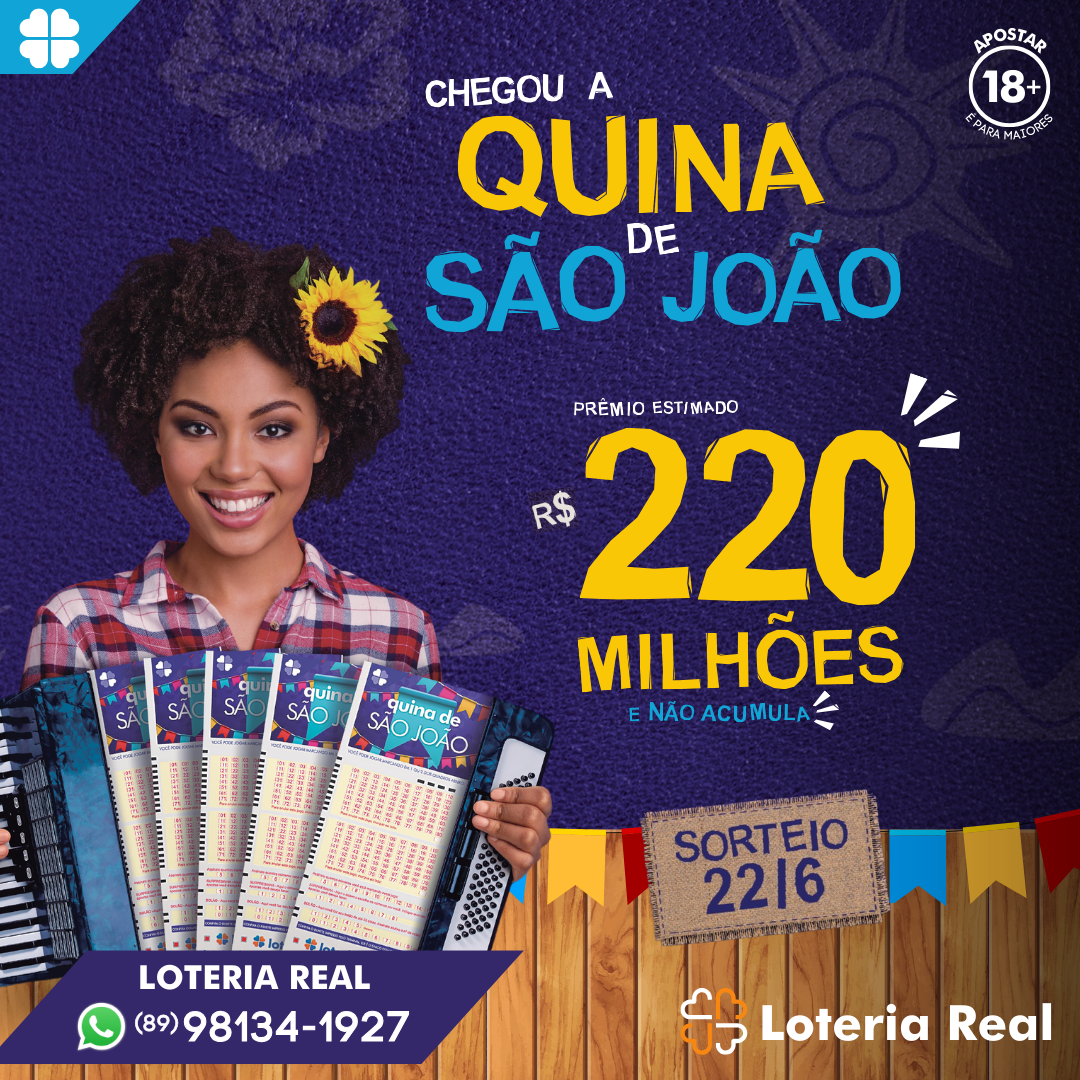
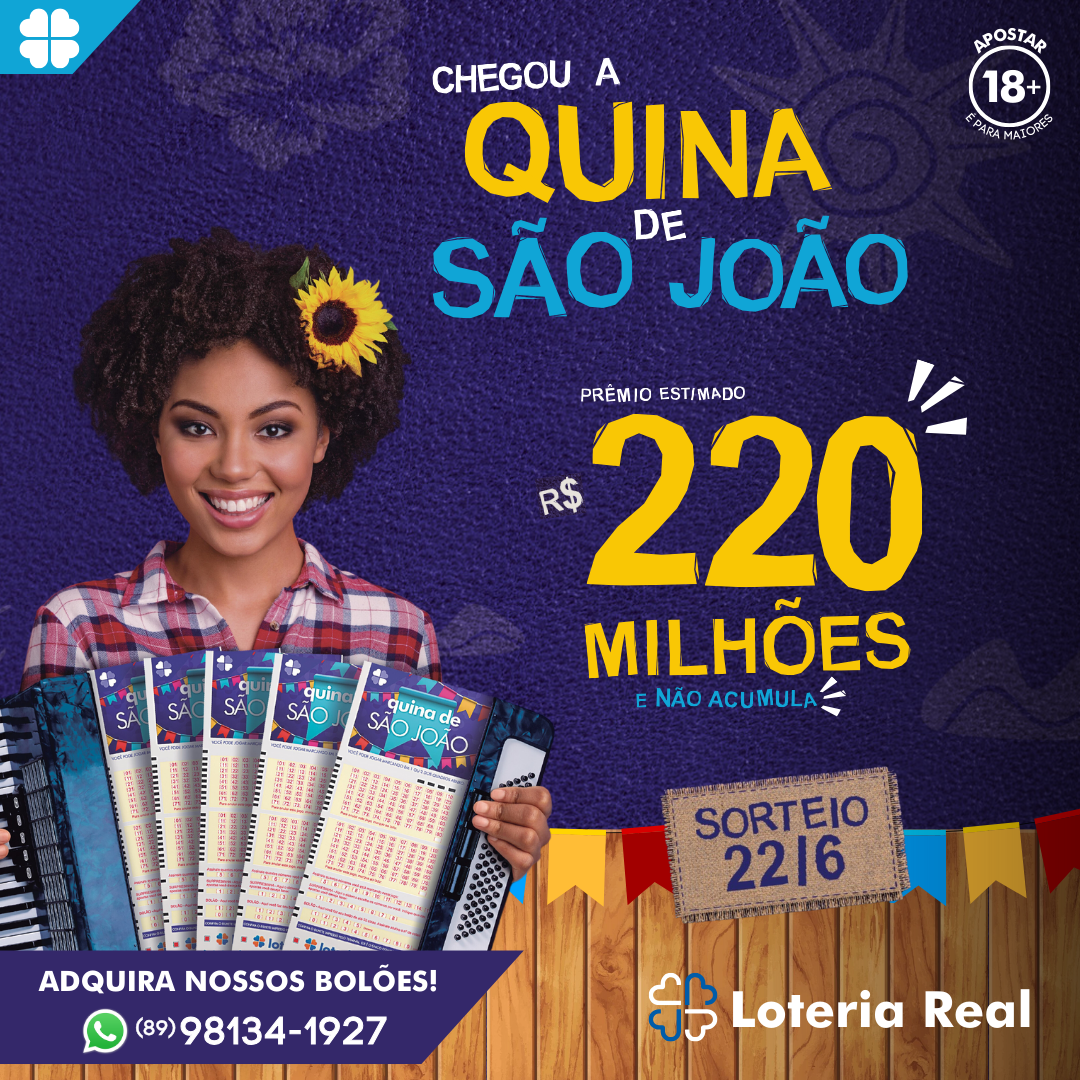
v2

diff --git a/index.html b/index.html
@@ -10,98 +10,78 @@
       crossorigin="anonymous"
     />
     <link rel="stylesheet" href="style.css" />
-    <link
-      rel="shortcut icon"
-      href="https://www.caixa.gov.br/PublishingImages/nova-home/icones/x-volume-positiva-54-v2.png"
-      type="image/x-icon"
-    />
     <title>Loteria Real</title>
   </head>
   <body>
     <header>
-      <img src="logo.png" alt="" />
+      <img src="logo lot.png" alt="" />
     </header>
     <main>
-      <h2>
-        O <span class="destak">lugar</span> de ficar
-        <span class="destak">rico</span> é a aqui!
-      </h2>
+      <h2>Adquira seu bolão</h2>
+      <div class="products-contact">
+        <div>
+          <h5>Pelo Portal Caixa</h5>
+          <a
+            href="https://www.loteriasonline.caixa.gov.br/silce-web/?utm_source=site_loterias&utm_medium=aplicativos#/bolao-caixa/quina"
+            ><img src="caixa.png" alt=""
+          /></a>
+        </div>
+        <div>
+          <h5>Pelo WhatsApp</h5>
+          <a
+            href="https://api.whatsapp.com/send/?phone=5589981341927&text=Ol%C3%A1%2C+estou+entrando+em+contato+atrav%C3%A9s+do+%2Asite%2A+da+Loteria+Real%21&type=phone_number&app_absent=0"
+            ><img src="whats.png" alt=""
+          /></a>
+        </div>
+      </div>
       <div class="social">
         <a
-          id="buy"
-          target="_blank"
-          href="https://www.loteriasonline.caixa.gov.br/silce-web/?utm_source=site_loterias&utm_medium=aplicativos#/bolao-caixa/quina"
-          ><img
-            src="https://www.caixa.gov.br/PublishingImages/nova-home/icones/x-volume-positiva-54-v2.png"
-            alt=""
-          />
-          <h4>Comprar <strong>bolão</strong></h4></a
-        >
-
-        <a
-          id="whatsapp"
           target="_blank"
           href="https://api.whatsapp.com/send/?phone=5589981341927&text=Ol%C3%A1%2C+estou+entrando+em+contato+atrav%C3%A9s+do+%2Asite%2A+da+Loteria+Real%21&type=phone_number&app_absent=0"
-          ><img
-            src="https://icons.iconarchive.com/icons/dtafalonso/android-l/256/WhatsApp-icon.png"
-            alt=""
-          />
-          <h4>Fale com um <strong>atendente</strong></h4></a
+          ><button type="button" class="btn btn-primary">
+            <h4>Fale conosco</h4>
+          </button></a
         >
-        <a
-          id="instagram"
-          target="_blank"
-          href="https://www.instagram.com/loteriareal_srn/"
-          ><img
-            src="https://upload.wikimedia.org/wikipedia/commons/thumb/5/58/Instagram-Icon.png/1024px-Instagram-Icon.png"
-            alt=""
-          />
-          <h4>Confira nossas <strong>postagens</strong></h4>
-        </a>
       </div>
-      <div class="carousel">
-        <div
-          id="carouselExampleAutoplaying"
-          class="carousel slide"
-          data-bs-ride="carousel"
+      <div class="posts">
+        <img src="Post Feed Quina de São João.png" alt="" />
+        <img src="Serviços Loteria Real.png" alt="" />
+      </div>
+      <div class="social">
+        <a href="about.html"
+          ><button type="button" class="btn btn-light">
+            <h4 style="color: var(--main)">Sobre a loteria real</h4>
+          </button></a
         >
-          <div class="carousel-inner">
-            <div class="carousel-item active">
-              <img
-                src="Serviços Loteria Real.png"
-                class="d-block w-100"
-                alt="..."
-              />
-            </div>
-            <div class="carousel-item">
-              <img
-                src="Post Feed Quina de São João.png"
-                class="d-block w-100"
-                alt="..."
-              />
-            </div>
-          </div>
-          <button
-            class="carousel-control-prev"
-            type="button"
-            data-bs-target="#carouselExampleAutoplaying"
-            data-bs-slide="prev"
-          >
-            <span class="carousel-control-prev-icon" aria-hidden="true"></span>
-            <span class="visually-hidden">Previous</span>
-          </button>
-          <button
-            class="carousel-control-next"
-            type="button"
-            data-bs-target="#carouselExampleAutoplaying"
-            data-bs-slide="next"
-          >
-            <span class="carousel-control-next-icon" aria-hidden="true"></span>
-            <span class="visually-hidden">Next</span>
-          </button>
+      </div>
+
+      <div>
+        <h4 style="color: #fff">Siga-nos nas redes sociais</h4>
+        <div class="social-links">
+          <a target="_blank" href="https://www.instagram.com/loteriareal_srn/">
+            <button type="button" class="btn btn-primary">
+              <h4>Instagram</h4>
+            </button>
+          </a>
+          <a target="_blank" href="https://www.facebook.com/LoteriaRealSRN">
+            <button type="button" class="btn btn-primary">
+              <h4>Facebook</h4>
+            </button>
+          </a>
         </div>
       </div>
     </main>
+
+    <footer>
+      <p style="font-weight: bold;">LOTERIA REAL</p>
+      <p>Figueredo & Macedo Ltda</p>
+      <p>CNPJ: 02.724.941/0001-01 Cod. Loterico: 16.017932-7</p>
+      <p>Rua Prof. João Menezes, 607, Centro, São Raimundo Nonato-PI</p>
+      <p>CEP: 64770-000  Tel.: (89) 3582-1422/1236</p>
+      <p>Whatsapp: (89) 98134-1927</p>
+
+      <img id="selo" src="selo.png" alt="">
+    </footer>
 
     <script
       src="https://cdn.jsdelivr.net/npm/bootstrap@5.3.3/dist/js/bootstrap.bundle.min.js"

diff --git a/style.css b/style.css
@@ -1,12 +1,13 @@
 :root {
   --main: rgba(0, 92, 169, 0.9);
+  --orange: #f68712;
 }
 
 * {
-  margin: 0;
-  padding: 0;
+  margin: 0 !important;
   box-sizing: border-box;
-  font-family: "Gill Sans", "Gill Sans MT", Calibri, "Trebuchet MS", sans-serif !important;
+  font-family: "Didact Gothic", sans-serif !important;
+  text-transform: uppercase;
 }
 
 body {
@@ -21,10 +22,11 @@ header {
 }
 
 header img {
-  width: 300px;
+  width: 500px;
 }
 
 main {
+  padding: 0 1rem;
   width: 100%;
   display: flex;
   align-items: center;
@@ -34,8 +36,8 @@ main {
 }
 
 .carousel {
-  margin: 1rem 0 0 0;
-  width: 50%;
+  margin: 0 !important;
+  width: 100%;
   display: flex;
   align-items: center;
   justify-content: center;
@@ -43,62 +45,90 @@ main {
 
 .social {
   width: 35%;
-  display: flex;
-  align-items: center;
-  justify-content: center;
-  flex-direction: column;
-  gap: 1rem;
+  margin: 2rem 0 !important;
 }
 
-.social a {
-  width: 100%;
-  border-radius: 5px;
-  display: flex;
-  align-items: center;
-  justify-content: center;
-  flex-wrap: wrap;
-  gap: 1rem;
-  padding: 0.5rem;
-  text-decoration: none;
-  color: #fff;
-  text-align: center;
+button {
+  width: 100% !important;
+  margin: 0.5rem 0 !important;
+}
+
+h5 {
+  margin-bottom: 1rem !important;
 }
 
 h4 {
   margin: 0 !important;
+  font-weight: bold;
 }
 
 h2 {
-  margin: 0 0 1rem 0;
-  font-size: 2.5rem;
   color: #fff;
+  font-weight: bold;
+  text-shadow: 1px 1px var(--orange);
+  margin: 1rem 0 0 0 !important;
+}
+
+.products-contact,
+.posts {
+  display: flex;
+  justify-content: space-around;
+  align-items: center;
+  flex-wrap: wrap;
+  width: 100%;
+  margin-top: 2rem !important;
+}
+
+.posts {
+  margin: 0 !important;
+}
+
+.products-contact h5 {
+  font-weight: bold;
   padding: 0.5rem;
-  font-weight: bold;
-  text-transform: uppercase;
+  background-color: aliceblue;
+  border-radius: 50px;
+  color: var(--main);
 }
 
-.social a img {
-  width: 20px;
-  height: 20px;
+.products-contact div {
+  width: 40%;
 }
 
-#whatsapp {
-  background-color: green;
+.posts img {
+  width: 40%;
+  border-radius: 5px;
 }
 
-#instagram {
-  background-image: url("https://i.pinimg.com/736x/48/4c/1f/484c1f1ebc0a194c30930bcdabddca13.jpg");
-  background-size: cover;
-  background-repeat: no-repeat;
+.products-contact img {
+  width: 100%;
+  border-radius: 5px;
 }
 
-#buy {
-  background-color: orange;
+.social-links {
+  display: flex;
+  justify-content: space-between;
+  align-items: center;
+  margin-bottom: 2rem !important;
 }
 
-.destak {
-  color: orange;
-  font-weight: bold;
+footer {
+  text-align: center;
+  position: relative;
+  padding: 1rem;
+  margin-top: 2rem !important;
+  background-color: var(--orange);
+}
+
+footer p {
+  font-size: 0.8rem;
+}
+
+#selo {
+  width: 100px;
+  position: absolute;
+  top: -50px;
+  right: 1rem;
 }
 
 @media (max-width: 1200px) {
@@ -106,17 +136,33 @@ h2 {
     width: 60%;
   }
 
-  .carousel {
-    width: 80%;
+  header img {
+    width: 90%;
+  }
+
+  .products-contact,
+  .posts {
+    flex-direction: column;
+    align-items: center;
+    margin-top: 0 !important;
+  }
+
+  .products-contact div {
+    width: 100%;
+    margin-top: 2rem !important;
+  }
+
+  .posts img {
+    width: 100%;
+  }
+
+  .posts img:first-child {
+    margin-bottom: 2rem !important;
   }
 }
 
 @media (max-width: 720px) {
   .social {
     width: 95%;
-  }
-
-  .carousel {
-    width: 98%;
   }
 }

diff --git a/about.html b/about.html
@@ -1,0 +1,36 @@
+<!DOCTYPE html>
+<html lang="pt-br">
+  <head>
+    <meta charset="UTF-8" />
+    <meta name="viewport" content="width=device-width, initial-scale=1.0" />
+    <link
+      href="https://cdn.jsdelivr.net/npm/bootstrap@5.3.3/dist/css/bootstrap.min.css"
+      rel="stylesheet"
+      integrity="sha384-QWTKZyjpPEjISv5WaRU9OFeRpok6YctnYmDr5pNlyT2bRjXh0JMhjY6hW+ALEwIH"
+      crossorigin="anonymous"
+    />
+    <link rel="stylesheet" href="style.css" />
+
+    <title>Loteria Real</title>
+  </head>
+  <body>
+    <header>
+      <img src="logo lot.png" alt="" />
+    </header>
+    <main>
+      <div class="social">
+        <a href="index.html"
+          ><button type="button" class="btn btn-light">
+            <h4 style="color: var(--main)">Voltar</h4>
+          </button></a
+        >
+      </div>
+    </main>
+
+    <script
+      src="https://cdn.jsdelivr.net/npm/bootstrap@5.3.3/dist/js/bootstrap.bundle.min.js"
+      integrity="sha384-YvpcrYf0tY3lHB60NNkmXc5s9fDVZLESaAA55NDzOxhy9GkcIdslK1eN7N6jIeHz"
+      crossorigin="anonymous"
+    ></script>
+  </body>
+</html>
